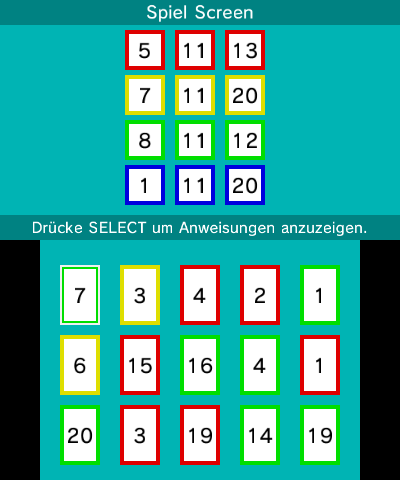
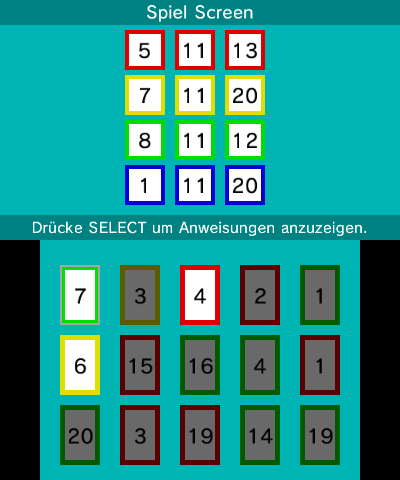
Überprüfe für die Elfer Reihenfolge.

diff --git a/3ds/source/screens/gameScreen.cpp b/3ds/source/screens/gameScreen.cpp
@@ -536,9 +536,27 @@ void GameScreen::Logic(u32 hDown, u32 hHeld, touchPosition touch) {
 
 		/* Spiel-Logik. */
 		if (hDown & KEY_A) {
-			if (!this->DoPlayMove().second) {
-				if (!this->gameOver) this->NextPHandle();
-			}
+			/* Überprüfe ob Spielbar. */
+			if (this->currentGame->Playable(this->currentGame->GetCurrentPlayer(),
+				this->currentGame->GetCardIndex(this->currentGame->GetCurrentPlayer()))) {
+					if (this->forceEleven) {
+						/* Checke, ob diese Karte eine 11 ist. */
+						if (this->currentGame->GetPlayerCard(this->currentGame->GetCurrentPlayer(),
+							this->currentGame->GetCardIndex(this->currentGame->GetCurrentPlayer())).CT != CardType::NUMBER_11) {
+								Msg::DisplayWaitMsg(Lang::get("FORCE_ELEVEN"));
+								return;
+							}
+
+						if (!this->checkProper11()) {
+							Msg::DisplayWaitMsg(Lang::get("WRONG_11"));
+							return;
+						}
+					}
+
+					if (!this->DoPlayMove().second) {
+						if (!this->gameOver) this->NextPHandle();
+					}
+				}
 		}
 
 		/* Touch Berührung's Logik und spiel. */
@@ -551,13 +569,31 @@ void GameScreen::Logic(u32 hDown, u32 hHeld, touchPosition touch) {
 							this->currentGame->SetCardIndex(this->currentGame->GetCurrentPlayer(),
 								i + (this->currentGame->GetPageIndex(this->currentGame->GetCurrentPlayer()) * 15));
 
-							if (!this->DoPlayMove().second) {
-								if (!this->gameOver) this->NextPHandle();
-							}
+							/* Überprüfe ob Spielbar. */
+							if (this->currentGame->Playable(this->currentGame->GetCurrentPlayer(),
+								this->currentGame->GetCardIndex(this->currentGame->GetCurrentPlayer()))) {
+									if (this->forceEleven) {
+										/* Checke, ob diese Karte eine 11 ist. */
+										if (this->currentGame->GetPlayerCard(this->currentGame->GetCurrentPlayer(),
+											this->currentGame->GetCardIndex(this->currentGame->GetCurrentPlayer())).CT != CardType::NUMBER_11) {
+												Msg::DisplayWaitMsg(Lang::get("FORCE_ELEVEN"));
+												return;
+											}
+
+										if (!this->checkProper11()) {
+											Msg::DisplayWaitMsg(Lang::get("WRONG_11"));
+											return;
+										}
+									}
+
+									if (!this->DoPlayMove().second) {
+										if (!this->gameOver) this->NextPHandle();
+									}
+								}
+						}
 					}
 				}
 			}
-		}
 
 		/* Karten-Zieh Logik. */
 		if (hDown & KEY_X) {
@@ -625,6 +661,39 @@ void GameScreen::Logic(u32 hDown, u32 hHeld, touchPosition touch) {
 	}
 }
 
+/*
+	Überprüfe, ob die richtige 11 gespielt wurde.
+
+	Die Reihenfolge ist: Rot, Gelb, Grün und Blau.
+*/
+bool GameScreen::checkProper11() const {
+	const CardStruct CS = this->currentGame->GetPlayerCard(this->currentGame->GetCurrentPlayer(),
+							this->currentGame->GetCardIndex(this->currentGame->GetCurrentPlayer()));
+
+	if (CS.CT != CardType::NUMBER_11) return false;
+
+	if (this->checkSpecificCard(CardType::NUMBER_11, CardColor::COLOR_RED)) {
+		return CS.CC == CardColor::COLOR_RED;
+	}
+
+	if (this->checkSpecificCard(CardType::NUMBER_11, CardColor::COLOR_YELLOW)) {
+		return CS.CC == CardColor::COLOR_YELLOW;
+	}
+
+	if (this->checkSpecificCard(CardType::NUMBER_11, CardColor::COLOR_GREEN)) {
+		return CS.CC == CardColor::COLOR_GREEN;
+	}
+
+	if (this->checkSpecificCard(CardType::NUMBER_11, CardColor::COLOR_BLUE)) {
+		return CS.CC == CardColor::COLOR_BLUE;
+	}
+
+	return false;
+}
+
+/*
+	Nächster Spieler Handle.
+*/
 void GameScreen::NextPHandle() {
 	/* Nächster Spieler handle. */
 	if (this->currentGame->GetCurrentPlayer() < this->currentGame->GetPlayerAmount() - 1) {

diff --git a/3ds/include/screens/gameScreen.hpp b/3ds/include/screens/gameScreen.hpp
@@ -51,6 +51,7 @@ private:
 	void NextPHandle();
 	bool checkSpecificCard(CardType CT, CardColor CC) const;
 	void forceElevenCheck();
+	bool checkProper11() const;
 
 	std::unique_ptr<Game> currentGame = nullptr; // Der Spiel-Zeiger.
 	bool forcePlay = true, forceEleven = false, isSub = false, gameOver = false;

diff --git a/README.md b/README.md
@@ -24,7 +24,7 @@ Hier findest du ein paar Screenshots zum aktuellen Fortschritt.
 ![](https://github.com/SuperSaiyajinStackZ/3DElf/blob/main/screenshots/instructions_en.png) ![](https://github.com/SuperSaiyajinStackZ/3DElf/blob/main/screenshots/game_screen_en.png)  ![](https://github.com/SuperSaiyajinStackZ/3DElf/blob/main/screenshots/sub_menu_en.png)
 
 ### Splash Overlay
-![](https://github.com/SuperSaiyajinStackZ/3DElf/blob/main/screenshots/dev_by.png)
+![](https://github.com/SuperSaiyajinStackZ/3DElf/blob/main/screenshots/splash_en.png)
 
 ### Sprachauswahl Overlay
 ![](https://github.com/SuperSaiyajinStackZ/3DElf/blob/main/screenshots/language_overlay_en.png)
